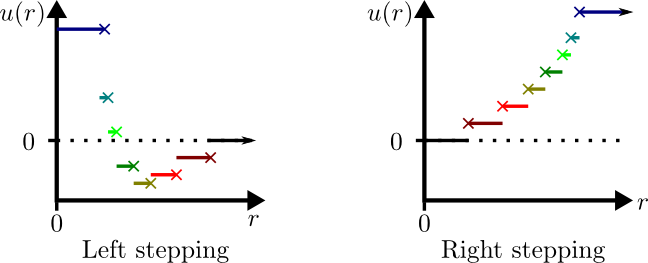
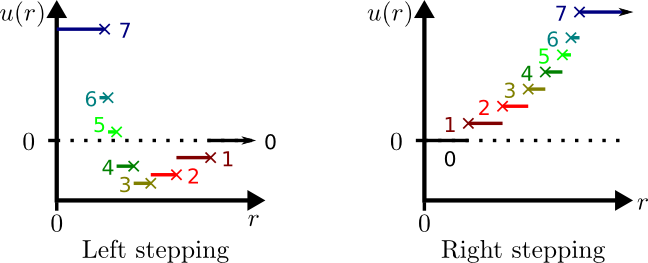
More work on the stepped potential type docs

diff --git a/htdocs/pages/reference.php b/htdocs/pages/reference.php
@@ -2154,19 +2154,20 @@ its parameters");?>
 <div style="text-align:center;">
 <?php embedfigure("/images/SteppedPotential.png", 648, 263, "A
 comparison of the two types of stepped potential. The discontinuity
-locations are marked with a cross, and the adjacent line marks the location of
-the corresponding step.");?>
+locations are marked with a cross, and the adjacent line marks the
+location of the corresponding step. The internal numbering DynamO uses
+for each step is also outlined.");?>
 </div>
 <p>
   In both potentials, there is an implicit step (the zero step) which
-  has an energy of zero (marked in black above).  Left stepped
-  potentials are used for forces which decay with $r$, whereas Right
-  stepped potentials are for forces which increase with $r$. This is
-  for efficiency, as the step "state" for a pair of particles which
-  are within the zero step are not stored in memory.  Therefore, a
-  stepped approximate Lennard-Jones potential is most efficiently
-  implemented as a Left stepped potential, whereas a spring potential
-  is most efficiently implemented using a Right potential.
+  has an energy of zero.  Left stepped potentials are used for forces
+  which decay with $r$, whereas Right stepped potentials are for
+  forces which increase with $r$. This is for efficiency, as the step
+  "state" for a pair of particles which are within the zero step are
+  not stored in memory.  Therefore, a stepped approximate
+  Lennard-Jones potential is most efficiently implemented as a Left
+  stepped potential, whereas a spring potential is most efficiently
+  implemented using a Right potential.
 </p>
 <h4>Example usage</h4>
 <p>
@@ -2216,7 +2217,7 @@ the corresponding step.");?>
   <li>
     <b>Step</b> <i>(tag)</i>: This tag represents a single
     discontinuity/step of the stepped potential. On load these steps
-    are sorted by their <b>R</b> value.
+    are sorted by their <b>R</b> value and allocated numbers as outlined above.
     <ul>
       <li>
 	<b>R</b> <i>(attribute)</i>: The radial separation of the
